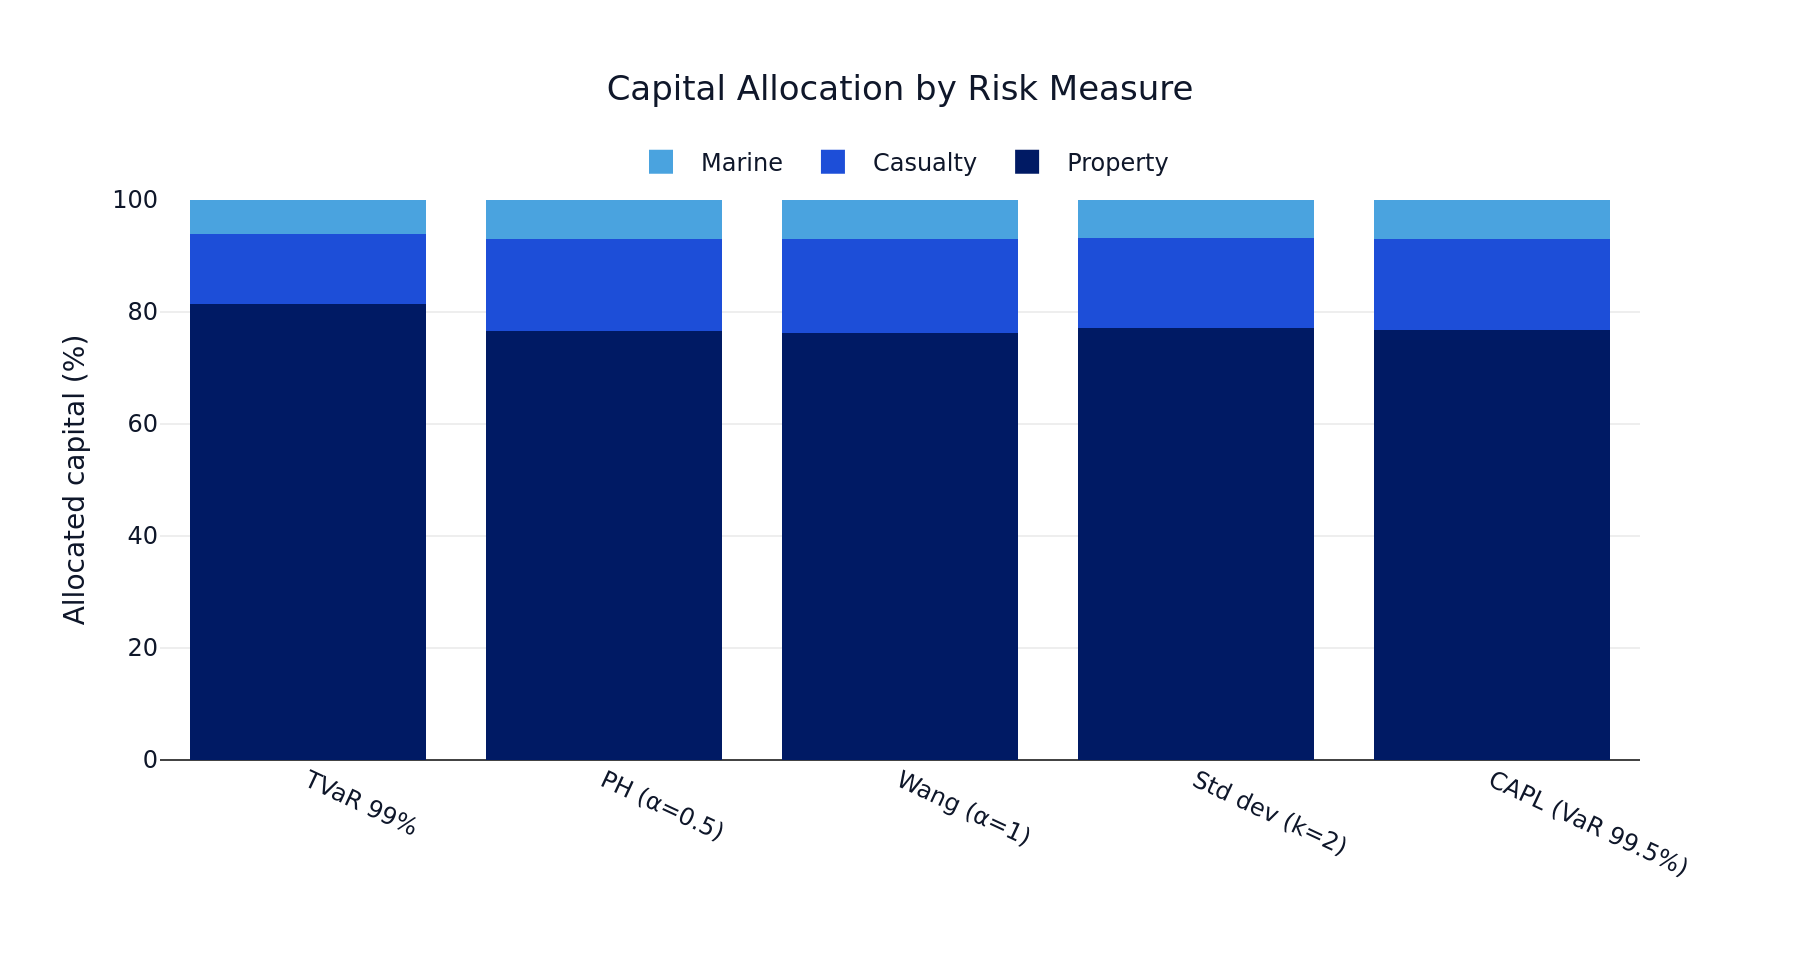
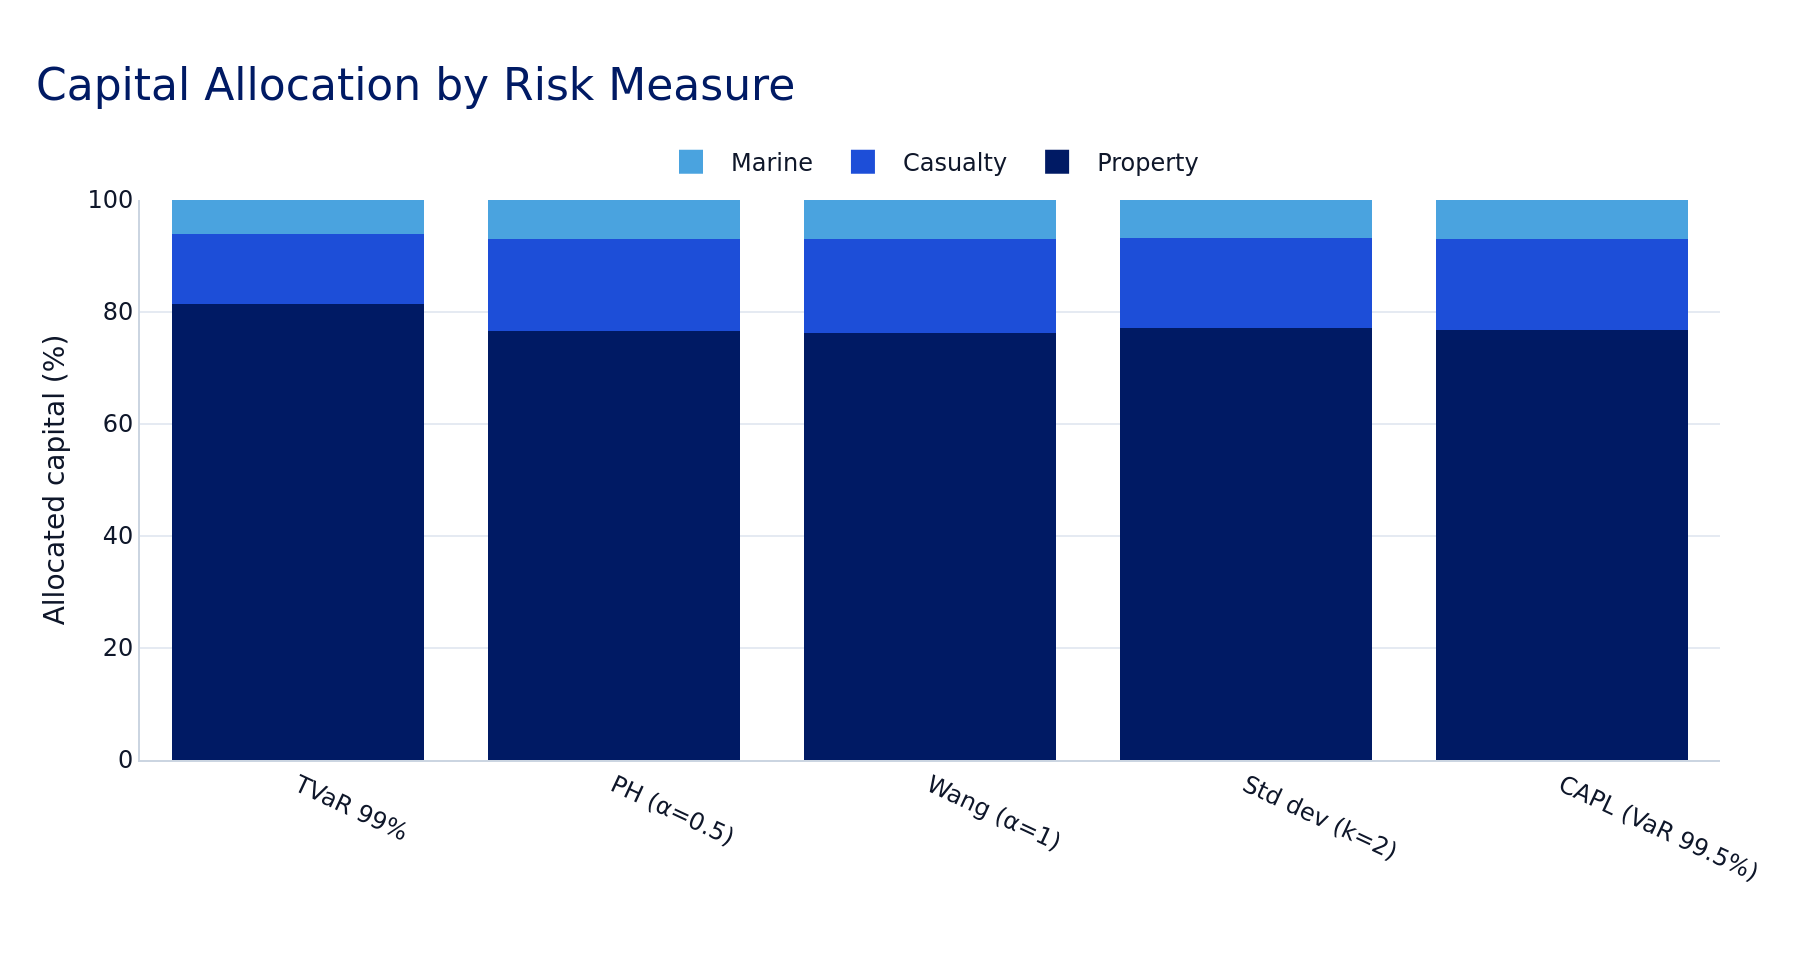
Add default Proteus Plotly template

diff --git a/docs/tutorials/generate_risk_measure_charts.py b/docs/tutorials/generate_risk_measure_charts.py
@@ -17,7 +17,18 @@ import numpy as np
 import plotly.graph_objects as go
 from plotly.subplots import make_subplots
 
-from pal import ProteusVariable, XoLTower, config, copulas, distributions, set_random_seed
+from pal import (
+    PROTEUS_BLUE,
+    PROTEUS_NAVY,
+    PROTEUS_ORANGE,
+    PROTEUS_SKY,
+    ProteusVariable,
+    XoLTower,
+    config,
+    copulas,
+    distributions,
+    set_random_seed,
+)
 from pal.frequency_severity import FrequencySeverityModel
 from pal.risk_measures import (
     percentile_layer,
@@ -30,20 +41,7 @@ from pal.risk_measures import (
 
 OUT = Path(__file__).parent
 # Proteus documentation palette (also defined in docs/source/_static/css/proteus.css).
-PROTEUS_NAVY = "#001a64"
-PROTEUS_BLUE = "#1d4ed8"
-PROTEUS_SKY = "#4aa3df"
-PROTEUS_ORANGE = "#f59e0b"
-PROTEUS_TEAL = "#0f766e"
 COLORS = {"property": PROTEUS_NAVY, "casualty": PROTEUS_BLUE, "marine": PROTEUS_SKY}
-PLOTLY_TEMPLATE = {
-    "layout": {
-        "paper_bgcolor": "white",
-        "plot_bgcolor": "white",
-        "font": {"family": "Arial, sans-serif", "color": "#0f172a"},
-        "colorway": [PROTEUS_NAVY, PROTEUS_BLUE, PROTEUS_SKY, PROTEUS_ORANGE, PROTEUS_TEAL],
-    }
-}
 
 
 def portfolio_results():
@@ -80,7 +78,7 @@ def plot_allocations(portfolio, measures):
         fig.add_bar(x=names, y=values[:, i] * 100, name=lob.title(), marker_color=COLORS[lob])
         bottom += values[:, i]
     fig.update_layout(
-        template=PLOTLY_TEMPLATE,
+        template="proteus",
         title="Capital Allocation by Risk Measure",
         barmode="stack",
         yaxis={"title": "Allocated capital (%)", "range": [0, 100]},
@@ -109,7 +107,7 @@ def plot_weights(total, measures):
             name=name,
         )
     fig.update_layout(
-        template=PLOTLY_TEMPLATE,
+        template="proteus",
         title="Risk Measure Weights by Percentile",
         xaxis={"title": "Percentile of total loss"},
         yaxis={"title": "Signed log₁₀(1 + |simulation weight|)"},
@@ -154,7 +152,7 @@ def plot_price_curve():
         secondary_y=True,
     )
     fig.update_layout(
-        template=PLOTLY_TEMPLATE,
+        template="proteus",
         title="XoL Pricing by Attachment Point (PH α=0.5)",
         barmode="group",
         xaxis={"title": "Attachment point"},

diff --git a/src/pal/plotly_template.py b/src/pal/plotly_template.py
@@ -1,0 +1,61 @@
+"""Proteus styling for Plotly figures.
+
+Importing :mod:`pal` registers the ``proteus`` template and makes it the
+Plotly default. Applications can still select another template explicitly
+with ``fig.update_layout(template="plotly_white")``.
+"""
+
+from __future__ import annotations
+
+import plotly.graph_objects as go
+import plotly.io as pio
+
+PROTEUS_NAVY = "#001a64"
+PROTEUS_BLUE = "#1d4ed8"
+PROTEUS_SKY = "#4aa3df"
+PROTEUS_ORANGE = "#f59e0b"
+PROTEUS_TEAL = "#0f766e"
+
+PROTEUS_COLORWAY = [PROTEUS_NAVY, PROTEUS_BLUE, PROTEUS_SKY, PROTEUS_ORANGE, PROTEUS_TEAL]
+
+proteus_template = go.layout.Template(
+    layout=go.Layout(
+        paper_bgcolor="white",
+        plot_bgcolor="white",
+        colorway=PROTEUS_COLORWAY,
+        font={"family": "Arial, sans-serif", "color": "#0f172a"},
+        title={"font": {"size": 22, "color": PROTEUS_NAVY}, "x": 0.02, "xanchor": "left"},
+        legend={"bgcolor": "rgba(255,255,255,0.8)"},
+        margin={"l": 70, "r": 40, "t": 70, "b": 65},
+        xaxis={"showline": True, "linecolor": "#cbd5e1", "gridcolor": "#e5eaf2", "zeroline": False},
+        yaxis={"showline": True, "linecolor": "#cbd5e1", "gridcolor": "#e5eaf2", "zeroline": False},
+        hoverlabel={"bgcolor": "white", "font": {"color": "#0f172a"}},
+        annotations=[
+            {
+                "text": "PROTEUS",
+                "xref": "paper",
+                "yref": "paper",
+                "x": 1,
+                "y": -0.16,
+                "xanchor": "right",
+                "yanchor": "top",
+                "showarrow": False,
+                "font": {"size": 10, "color": PROTEUS_NAVY},
+                "opacity": 0.45,
+            }
+        ],
+    )
+)
+
+pio.templates["proteus"] = proteus_template
+pio.templates.default = "proteus"
+
+__all__ = [
+    "PROTEUS_BLUE",
+    "PROTEUS_COLORWAY",
+    "PROTEUS_NAVY",
+    "PROTEUS_ORANGE",
+    "PROTEUS_SKY",
+    "PROTEUS_TEAL",
+    "proteus_template",
+]

diff --git a/tests/test_plotly_template.py b/tests/test_plotly_template.py
@@ -1,0 +1,17 @@
+"""Tests for PAL's default Plotly styling."""
+
+import plotly.graph_objects as go
+import plotly.io as pio
+
+from pal import PROTEUS_COLORWAY, PROTEUS_NAVY
+
+
+def test_proteus_is_the_default_plotly_template():
+    assert pio.templates.default == "proteus"
+    figure = go.Figure()
+    assert figure.layout.template.layout.title.font.color == PROTEUS_NAVY
+    assert figure.layout.template.layout.annotations[0].text == "PROTEUS"
+
+
+def test_proteus_template_exposes_brand_palette():
+    assert list(pio.templates["proteus"].layout.colorway) == PROTEUS_COLORWAY

diff --git a/src/pal/variables.py b/src/pal/variables.py
@@ -67,8 +67,6 @@ from .frequency_severity import FreqSevSims
 from .stochastic_scalar import StochasticScalar
 from .types import VectorLike
 
-pio.templates.default = "none"
-
 T = t.TypeVar("T")
 
 __all__ = [

diff --git a/src/pal/__init__.py b/src/pal/__init__.py
@@ -18,5 +18,6 @@ from .config import *
 from .contracts import *
 from .distributions import *
 from .frequency_severity import *
+from .plotly_template import *
 from .stats import *
 from .variables import *
